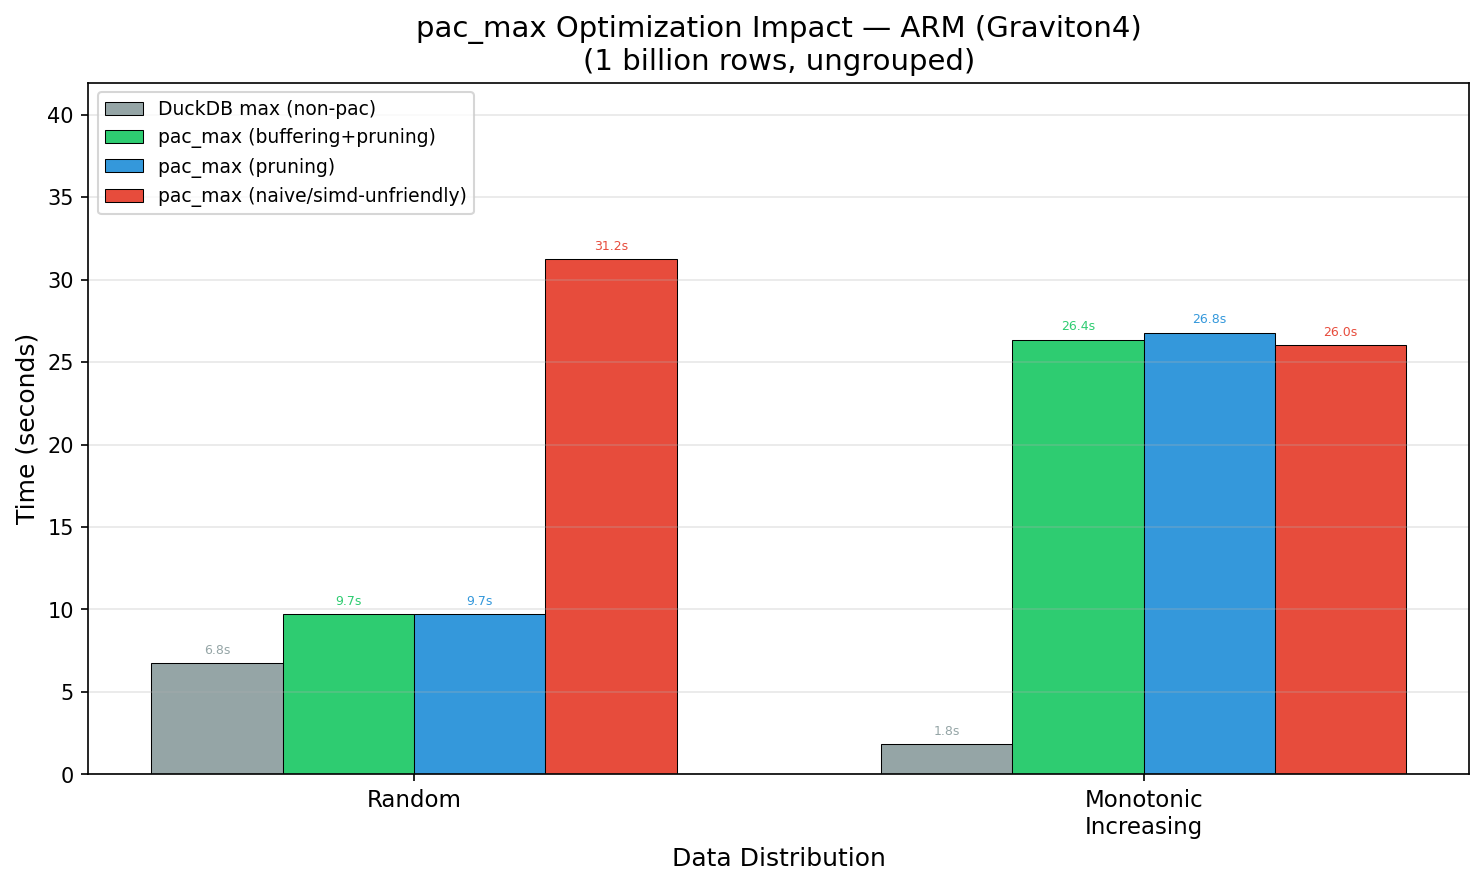
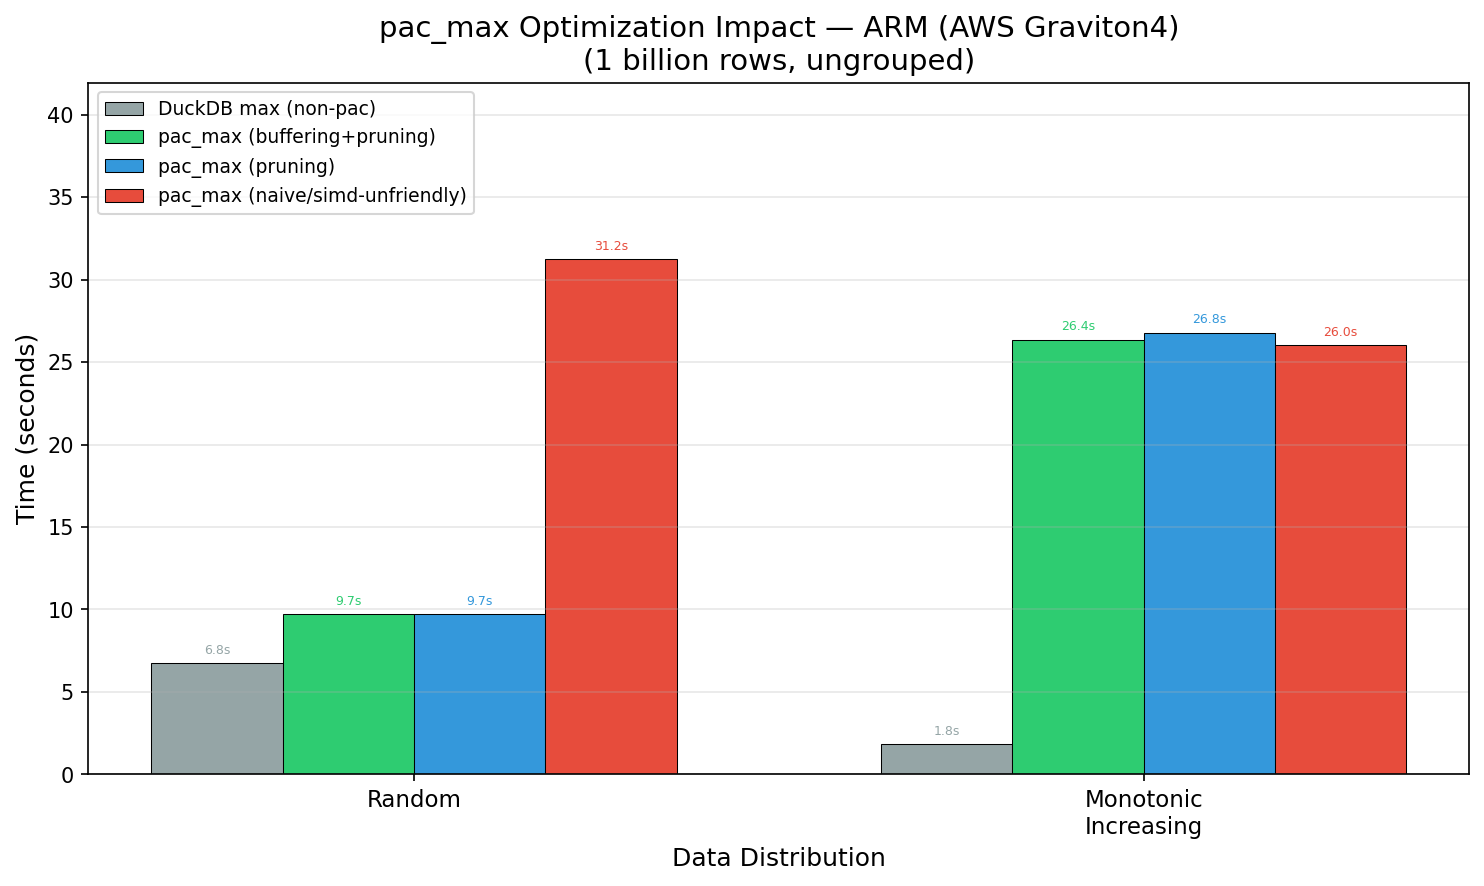
refined simd graph

Changed region(s): [[0.248, 0.0, 0.8059, 0.0609]]

diff --git a/benchmark/pac_microbench/plot_simd_improvements.py b/benchmark/pac_microbench/plot_simd_improvements.py
@@ -10,7 +10,7 @@ from pathlib import Path
 PLATFORM_NAMES = {
     'epyc': 'AMD (EPYC 9645)',
     'granite-rapids': 'Intel Xeon (Granite Rapids)',
-    'graviton': 'ARM (Graviton4)',
+    'graviton': 'ARM (AWS Graviton4)',
     'macbook': 'ARM (Apple M2 Pro)'
 }
 
@@ -30,62 +30,118 @@ def load_count_data(platform_dir):
     """Load count improvement factor for a platform."""
     count_files = list(platform_dir.glob('count_*.csv'))
     if not count_files:
-        return None
+        return None, 0
     df = pd.read_csv(count_files[0])
 
-    # Filter to 1000M rows, ungrouped (nocascading times out at 10M groups)
-    df = df[(df['rows_m'] == 1000) &
-            (df['test'] == 'ungrouped')]
+    # Filter to 100M rows, ungrouped (count has no dtype column)
+    df = df[(df['rows_m'] == 100) & (df['test'] == 'ungrouped')]
 
-    default_row = df[df['variant'] == 'default']
-    naive_row = df[df['variant'] == 'nocascading']
+    total_default = 0
+    total_naive = 0
+    n_experiments = 0
 
-    if default_row.empty or naive_row.empty:
-        return None
+    # Group by experiment parameters to find matching pairs
+    for test in df['test'].unique():
+        test_df = df[df['test'] == test]
 
-    default_time = default_row['wall_sec'].values[0]
-    naive_time = naive_row['wall_sec'].values[0]
+        # For grouped: compare default vs nocascading
+        naive_variant = 'nocascading'
 
-    # Handle timeouts
-    if default_time < 0 or naive_time < 0:
-        return None
+        # Get unique experiment configs (excluding variant)
+        group_cols = [c for c in ['groups', 'dtype'] if c in test_df.columns]
+        if group_cols:
+            for _, group_df in test_df.groupby(group_cols):
+                default_rows = group_df[group_df['variant'] == 'default']
+                naive_rows = group_df[group_df['variant'] == naive_variant]
 
-    return naive_time / default_time
+                if not default_rows.empty and not naive_rows.empty:
+                    default_time = default_rows['agg_sec'].values[0]
+                    naive_time = naive_rows['agg_sec'].values[0]
+
+                    if default_time > 0 and naive_time > 0:
+                        total_default += default_time
+                        total_naive += naive_time
+                        n_experiments += 1
+        else:
+            default_rows = test_df[test_df['variant'] == 'default']
+            naive_rows = test_df[test_df['variant'] == naive_variant]
+
+            if not default_rows.empty and not naive_rows.empty:
+                default_time = default_rows['agg_sec'].values[0]
+                naive_time = naive_rows['agg_sec'].values[0]
+
+                if default_time > 0 and naive_time > 0:
+                    total_default += default_time
+                    total_naive += naive_time
+                    n_experiments += 1
+
+    if total_default == 0:
+        return None, 0
+
+    return total_naive / total_default, n_experiments
 
 
 def load_max_data(platform_dir):
     """Load max improvement factor for a platform."""
     minmax_files = list(platform_dir.glob('min_max_*.csv'))
     if not minmax_files:
-        return None
+        return None, 0
     df = pd.read_csv(minmax_files[0])
 
-    # Filter to dist_test, max, 1000M rows, random distribution
-    df = df[(df['test'] == 'dist_test') &
-            (df['aggregate'] == 'max') &
-            (df['rows_m'] == 1000) &
-            (df['dtype'] == 'random')]
+    # Filter to 100M rows, max aggregate, ungrouped, int8 only
+    df = df[(df['rows_m'] == 100) & (df['aggregate'] == 'max') & (df['test'].isin(['ungrouped', 'ungrouped_type', 'dist_test']))]
+    if 'dtype' in df.columns:
+        df = df[df['dtype'] == 'int8']
 
-    default_row = df[df['variant'] == 'default']
-    naive_row = df[df['variant'] == 'noboundopt']
+    total_default = 0
+    total_naive = 0
+    n_experiments = 0
 
-    if default_row.empty or naive_row.empty:
-        return None
+    for test in df['test'].unique():
+        test_df = df[df['test'] == test]
 
-    default_time = default_row['wall_sec'].values[0]
-    naive_time = naive_row['wall_sec'].values[0]
+        # For ungrouped: compare default vs nosimd
+        naive_variant = 'nosimd'
 
-    if default_time < 0 or naive_time < 0:
-        return None
+        # Group by experiment configs
+        group_cols = [c for c in ['groups', 'dtype'] if c in test_df.columns]
+        if group_cols:
+            for _, group_df in test_df.groupby(group_cols):
+                default_rows = group_df[group_df['variant'] == 'default']
+                naive_rows = group_df[group_df['variant'] == naive_variant]
 
-    return naive_time / default_time
+                if not default_rows.empty and not naive_rows.empty:
+                    default_time = default_rows['agg_sec'].values[0]
+                    naive_time = naive_rows['agg_sec'].values[0]
+
+                    if default_time > 0 and naive_time > 0:
+                        total_default += default_time
+                        total_naive += naive_time
+                        n_experiments += 1
+        else:
+            default_rows = test_df[test_df['variant'] == 'default']
+            naive_rows = test_df[test_df['variant'] == naive_variant]
+
+            if not default_rows.empty and not naive_rows.empty:
+                default_time = default_rows['agg_sec'].values[0]
+                naive_time = naive_rows['agg_sec'].values[0]
+
+                if default_time > 0 and naive_time > 0:
+                    total_default += default_time
+                    total_naive += naive_time
+                    n_experiments += 1
+
+    if total_default == 0:
+        return None, 0
+
+    return total_naive / total_default, n_experiments
 
 
 def load_sum_data(platform_dir):
     """Load sum improvement factor for a platform."""
     sumavg_files = list(platform_dir.glob('sum_avg_*.csv'))
     if not sumavg_files:
-        return None
+        return None, 0
     df = pd.read_csv(sumavg_files[0])
 
     # Handle different column names
@@ -94,30 +150,53 @@ def load_sum_data(platform_dir):
     else:
         test_col = 'test'
 
-    # Filter to sum, 1000M rows, ungrouped (nosimd only available for ungrouped)
-    df = df[(df['aggregate'] == 'sum') &
-            (df['rows_m'] == 1000) &
-            (df[test_col] == 'ungrouped_domain')]
-
-    # Use dtype='large' if available
-    if 'large' in df['dtype'].values:
-        df = df[df['dtype'] == 'large']
-    elif 'tiny' in df['dtype'].values:
+    # Filter to sum, 100M rows, ungrouped, tiny (int8)
+    df = df[(df['aggregate'] == 'sum') & (df['rows_m'] == 100) & (df[test_col] == 'ungrouped_domain')]
+    if 'dtype' in df.columns:
         df = df[df['dtype'] == 'tiny']
 
-    default_row = df[df['variant'] == 'default']
-    naive_row = df[df['variant'] == 'nosimd']
+    total_default = 0
+    total_naive = 0
+    n_experiments = 0
 
-    if default_row.empty or naive_row.empty:
-        return None
+    for test in df[test_col].unique():
+        test_df = df[df[test_col] == test]
 
-    default_time = default_row['wall_sec'].values[0]
-    naive_time = naive_row['wall_sec'].values[0]
+        # For grouped: compare default vs nocascading
+        naive_variant = 'nocascading'
 
-    if default_time < 0 or naive_time < 0:
-        return None
+        # Group by experiment configs
+        group_cols = [c for c in ['groups', 'dtype'] if c in test_df.columns]
+        if group_cols:
+            for _, group_df in test_df.groupby(group_cols):
+                default_rows = group_df[group_df['variant'] == 'default']
+                naive_rows = group_df[group_df['variant'] == naive_variant]
 
-    return naive_time / default_time
+                if not default_rows.empty and not naive_rows.empty:
+                    default_time = default_rows['agg_sec'].values[0]
+                    naive_time = naive_rows['agg_sec'].values[0]
+
+                    if default_time > 0 and naive_time > 0:
+                        total_default += default_time
+                        total_naive += naive_time
+                        n_experiments += 1
+        else:
+            default_rows = test_df[test_df['variant'] == 'default']
+            naive_rows = test_df[test_df['variant'] == naive_variant]
+
+            if not default_rows.empty and not naive_rows.empty:
+                default_time = default_rows['agg_sec'].values[0]
+                naive_time = naive_rows['agg_sec'].values[0]
+
+                if default_time > 0 and naive_time > 0:
+                    total_default += default_time
+                    total_naive += naive_time
+                    n_experiments += 1
+
+    if total_default == 0:
+        return None, 0
+
+    return total_naive / total_default, n_experiments
 
 
 def main():
@@ -134,11 +213,11 @@ def main():
         if not platform_dir.is_dir():
             continue
 
-        count_factor = load_count_data(platform_dir)
-        max_factor = load_max_data(platform_dir)
-        sum_factor = load_sum_data(platform_dir)
+        count_factor, count_n = load_count_data(platform_dir)
+        max_factor, max_n = load_max_data(platform_dir)
+        sum_factor, sum_n = load_sum_data(platform_dir)
 
-        print(f"{platform}: count={count_factor}, max={max_factor}, sum={sum_factor}")
+        print(f"{platform}: count={count_factor:.2f}x (n={count_n}), max={max_factor:.2f}x (n={max_n}), sum={sum_factor:.2f}x (n={sum_n})" if count_factor and max_factor and sum_factor else f"{platform}: count={count_factor}, max={max_factor}, sum={sum_factor}")
 
         if count_factor is not None or max_factor is not None or sum_factor is not None:
             platforms_with_data.append(platform)
@@ -177,7 +256,7 @@ def main():
     # Labels
     ax.set_xlabel('Architecture', fontsize=12)
     ax.set_ylabel('Improvement factor', fontsize=12)
-    ax.set_title('SIMD improvements (over all experiments at 10M tuples)', fontsize=14)
+    ax.set_title('SIMD improvements (100M tuples, ungrouped, aggregate cost)', fontsize=14)
     ax.set_xticks(x)
     ax.set_xticklabels([PLATFORM_NAMES[p] for p in platforms_with_data], fontsize=11)
     ax.legend(loc='upper left', fontsize=10)

diff --git a/benchmark/pac_microbench/plot_count_optimizations.py b/benchmark/pac_microbench/plot_count_optimizations.py
@@ -31,7 +31,7 @@ VARIANT_COLORS = {
 PLATFORM_NAMES = {
     'epyc': 'AMD (EPYC 9645)',
     'granite-rapids': 'Intel Xeon (Granite Rapids)',
-    'graviton': 'ARM (Graviton4)',
+    'graviton': 'ARM (AWS Graviton4)',
     'macbook': 'ARM (Apple M2 Pro)'
 }
 

diff --git a/benchmark/pac_microbench/plot_minmax_optimizations.py b/benchmark/pac_microbench/plot_minmax_optimizations.py
@@ -31,7 +31,7 @@ VARIANT_COLORS = {
 PLATFORM_NAMES = {
     'epyc': 'AMD (EPYC 9645)',
     'granite-rapids': 'Intel Xeon (Granite Rapids)',
-    'graviton': 'ARM (Graviton4)',
+    'graviton': 'ARM (AWS Graviton4)',
     'macbook': 'ARM (Apple M2 Pro)'
 }
 

diff --git a/benchmark/pac_microbench/plot_sum_optimizations.py b/benchmark/pac_microbench/plot_sum_optimizations.py
@@ -33,7 +33,7 @@ VARIANT_COLORS = {
 PLATFORM_NAMES = {
     'epyc': 'AMD (EPYC 9645)',
     'granite-rapids': 'Intel Xeon (Granite Rapids)',
-    'graviton': 'ARM (Graviton4)',
+    'graviton': 'ARM (AWS Graviton4)',
     'macbook': 'ARM (Apple M2 Pro)'
 }
 
